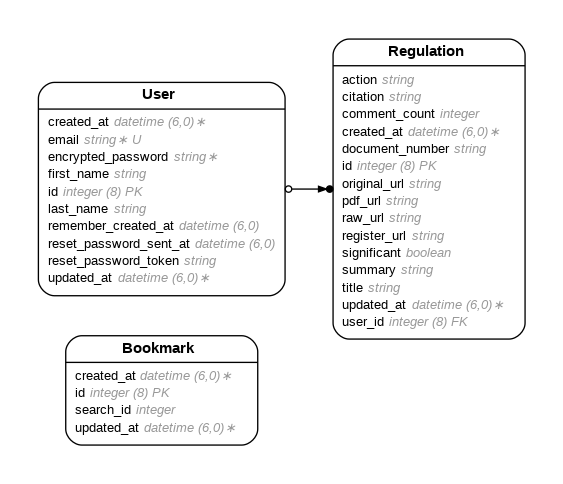
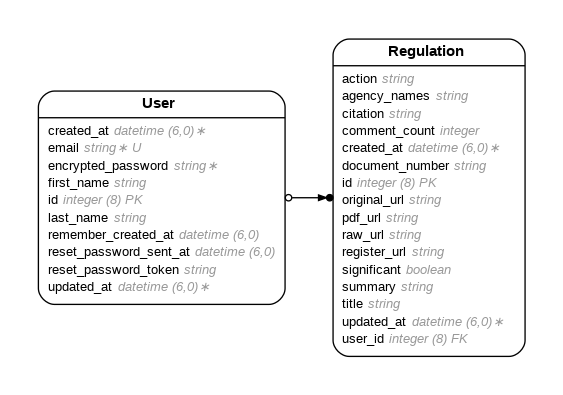
errors

Changed region(s): [[0.0604, 0.0608, 0.9361, 0.9418]]

diff --git a/app/controllers/regulations_controller.rb b/app/controllers/regulations_controller.rb
@@ -42,6 +42,8 @@ class RegulationsController < ApplicationController
      regulation.significant = @parsed_data["significant"]
      regulation.original_url = @parsed_data["body_html_url"]
      regulation.register_url = @parsed_data["html_url"]
+     regulation.agency_names = @parsed_data["agency_names"]
+  
      regulation.user_id = user_id
 
      client = OpenAI::Client.new(access_token: ENV.fetch("OPENAI_API_KEY"))
@@ -72,6 +74,18 @@ class RegulationsController < ApplicationController
       redirect_to("/regulations", { :alert => regulation.errors.full_messages.to_sentence })
     end
 
+  end
+
+  def destroy
+    the_id = params.fetch("path_id")  
+    regulation = Regulation.find_by(id: the_id, user_id: current_user.id)
+
+    if regulation
+      regulation.destroy
+      redirect_to("/regulations", { :notice => "Regulation deleted successfully." })
+    else
+      redirect_to("/regulations", { :alert => "Regulation not found or you do not have permission to delete it." })
+    end
   end
 end
 

diff --git a/config/routes.rb b/config/routes.rb
@@ -3,25 +3,6 @@ Rails.application.routes.draw do
   root to: "regulations#index"
 
 
-  # Routes for the Bookmark resource:
-
-  # CREATE
-  post("/insert_bookmark", { :controller => "bookmarks", :action => "create" })
-          
-  # READ
-  get("/bookmarks", { :controller => "bookmarks", :action => "index" })
-  
-  get("/bookmarks/:path_id", { :controller => "bookmarks", :action => "show" })
-  
-  # UPDATE
-  
-  post("/modify_bookmark/:path_id", { :controller => "bookmarks", :action => "update" })
-  
-  # DELETE
-  get("/delete_bookmark/:path_id", { :controller => "bookmarks", :action => "destroy" })
-
-  #------------------------------
-
   # Routes for the Regulation resource:
 
   # CREATE

diff --git a/app/models/regulation.rb b/app/models/regulation.rb
@@ -28,4 +28,6 @@
 #
 class Regulation < ApplicationRecord
   belongs_to :user, required: true, class_name: "User", foreign_key: "user_id"
+  serialize :agency_names, Array
+
 end

diff --git a/db/migrate/20250313052252_add_comment_count_to_regulations.rb b/db/migrate/20250313052252_add_comment_count_to_regulations.rb
@@ -1,0 +1,5 @@
+class AddCommentCountToRegulations < ActiveRecord::Migration[7.1]
+  def change
+    add_column :regulations, :comment_count, :integer
+  end
+end

diff --git a/db/migrate/20250313042634_add_agenciesto_regulation.rb b/db/migrate/20250313042634_add_agenciesto_regulation.rb
@@ -1,0 +1,5 @@
+class AddAgenciestoRegulation < ActiveRecord::Migration[7.1]
+  def change
+    add_column :regulations, :agency_names, :string
+  end
+end
